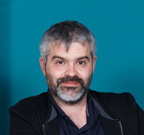
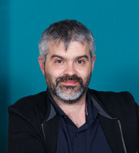
anim fotos i icones

diff --git a/style.css b/style.css
@@ -1,13 +1,14 @@
 @import url('https://fonts.googleapis.com/css2?family=Montserrat&display=fallback');
+
 :root {
     --photo_bg: url('./assets/img/bg-photo.jpg');
     --code_bg: url('./assets/img/bg-code.jpg');
     --me_background: url('./assets/img/me.jpg');
-    --studies_color: #4569aa;
-    --projects_color: #b91a47;
-    --examples_color: #be843c;
-    --text_link_color:#fff;
-    --text_icon_color:#000;
+    --studies_color: #3c85ae;
+    --projects_color: #d30741;
+    --examples_color: #f55f25;
+    --text_link_color: #fff;
+    --text_icon_color: #000;
 }
 
 * {
@@ -40,21 +41,22 @@ main {
         "photo code";
 }
 
-a{
+a {
     text-decoration: none;
-    color:unset;
+    color: unset;
     position: relative;
-    width:100%;
-    height:100%;
-    display:flex;
+    width: 100%;
+    height: 100%;
+    display: flex;
     flex-wrap: nowrap;
     justify-content: center;
     align-items: center;
 }
-svg{
-    width:16px;
-    height:16px;
-   fill:unset;
+
+svg {
+    width: 16px;
+    height: 16px;
+    fill: unset;
 }
 
 /*-----------------------------------------------------------------------------------------PICTURE ANS LINKS---------------------------------*/
@@ -80,6 +82,40 @@ main>div>div:first-child {
     position: relative;
     left: 50%;
     transform: translate(-50%);
+    transition:all 0.3s;
+}
+main>div>div:first-child:hover {
+    background-position-y: -15px;
+}
+
+body>main>div>div:first-child>div {
+    position: absolute;
+    top: 0;
+    left: 50%;
+    height: 130px;
+    width: 130px;
+    transform: translate(-50%);
+    /* background-color: #000; */
+    color: var(--text_link_color);
+    font-size: 0.35rem;
+    display: flex;
+    flex-direction: column;
+    justify-content: end;
+    align-items: center;
+    border-radius: 50%;
+    pointer-events: none;
+    opacity: 0;
+    transition: all 0.3s linear;
+}
+h1{
+    margin-bottom: 20px;
+    text-shadow: 2px 2px 2px #000000;
+}
+main>div>div:first-child:hover  div:first-child{
+    /* border: 2px solid #000; */
+    opacity: 1;
+    /* background-color: rgba(0,0,0,0.4); */
+
 }
 
 /*-----------------------------------------------------------------------------------------LINKS ---------------------------------*/
@@ -95,28 +131,57 @@ main>div>div:last-child {
     justify-content: space-between;
     flex-wrap: nowrap;
     align-items: flex-end;
+    z-index: -1;
 }
 
 
 main>div>div:last-child>div {
-    background-color: #fff;
-    width: 38px;
-    height: 38px;
+    background-color: var(--text_link_color);
+    width: 36px;
+    height: 36px;
+    /* border:2px solid var(--text_link_color); */
     border-radius: 50%;
     align-self: center;
-    margin-right:2px;
-    margin-left:2px;
+    margin-right: 2px;
+    margin-left: 2px;
     display: flex;
     justify-content: center;
     align-items: center;
-    fill:var(--text_icon_color);
+    position: relative;
+    fill: var(--text_icon_color);
+    overflow: hidden;
+    transition: all 0.2s;
+    -webkit-box-shadow: inset 0px 0px 0px -1px #000;
+    -moz-box-shadow: inset 0px 0px 0px -1px #000;
+    box-shadow: inset 0px 0px 0px -1px #000;
 
 }
+
+/************************************************************************************************animation*/
+main>div>div:last-child>div::before {
+    content: '';
+    position: absolute;
+    left: 0;
+    top: 0;
+    height: 100%;
+    width: 100%;
+    border-radius: 50%;
+    transition: all 0.3s;
+
+}
+
+main>div>div:last-child>div:hover:before {
+    -webkit-box-shadow: inset 0px 0px 0px 20px #000;
+    -moz-box-shadow: inset 0px 0px 0px 20px #000;
+    box-shadow: inset 0px 0px 0px 20px #000;
+}
+
 main>div>div:last-child>div:hover {
-    fill:var(--text_link_color);
-    background-color:var(--text_icon_color);
-
+    fill: var(--text_link_color);
+    background-color: transparent;
 }
+
+/************************************************************************************************animation*/
 
 main>div>div:last-child>div:not(:first-child):not(:last-child) {
     align-self: flex-end;
@@ -136,13 +201,15 @@ main section div {
     width: 220px;
     height: 30px;
     margin: 10px;
-    display:flex;
+    display: flex;
     flex-wrap: nowrap;
     justify-content: center;
     align-items: center;
-    cursor:pointer;
-    color:var(--text_link_color);
+    cursor: pointer;
+    border-bottom: 2px solid var(--text_link_color);
+    color: var(--text_link_color);
 }
+
 /* main section div:hover{
     background-color: #fff;
 } */
@@ -325,10 +392,3 @@ main section:nth-child(2)>div {
 }
 
 /*-----------------------------------------------------------------------------------------CODE ELELMENTS*/
-
-
-
-
-
-
-

diff --git a/index.html b/index.html
@@ -35,7 +35,11 @@
             <div><a href="http://example.com">D-246~Beta planet</a></div>
         </section>
         <div>
-            <div></div>
+            <div>
+                <div class="test">
+                    <h1>SERGI GOMEZ</h1>
+                </div>
+            </div>
             <div>
                 <div><a href="http://example.com">
                         <svg xmlns="http://www.w3.org/2000/svg"
